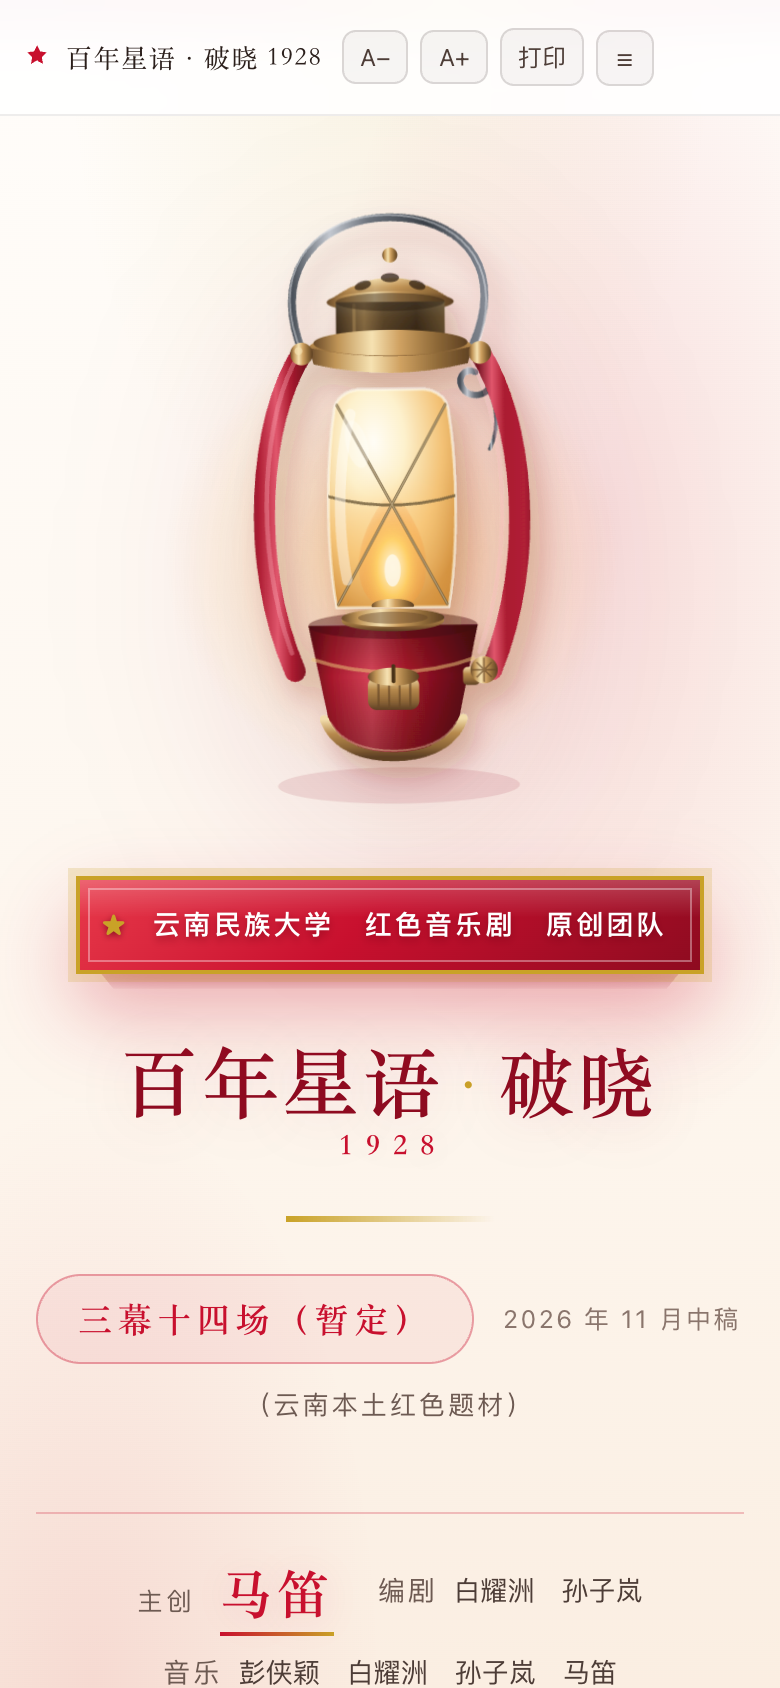
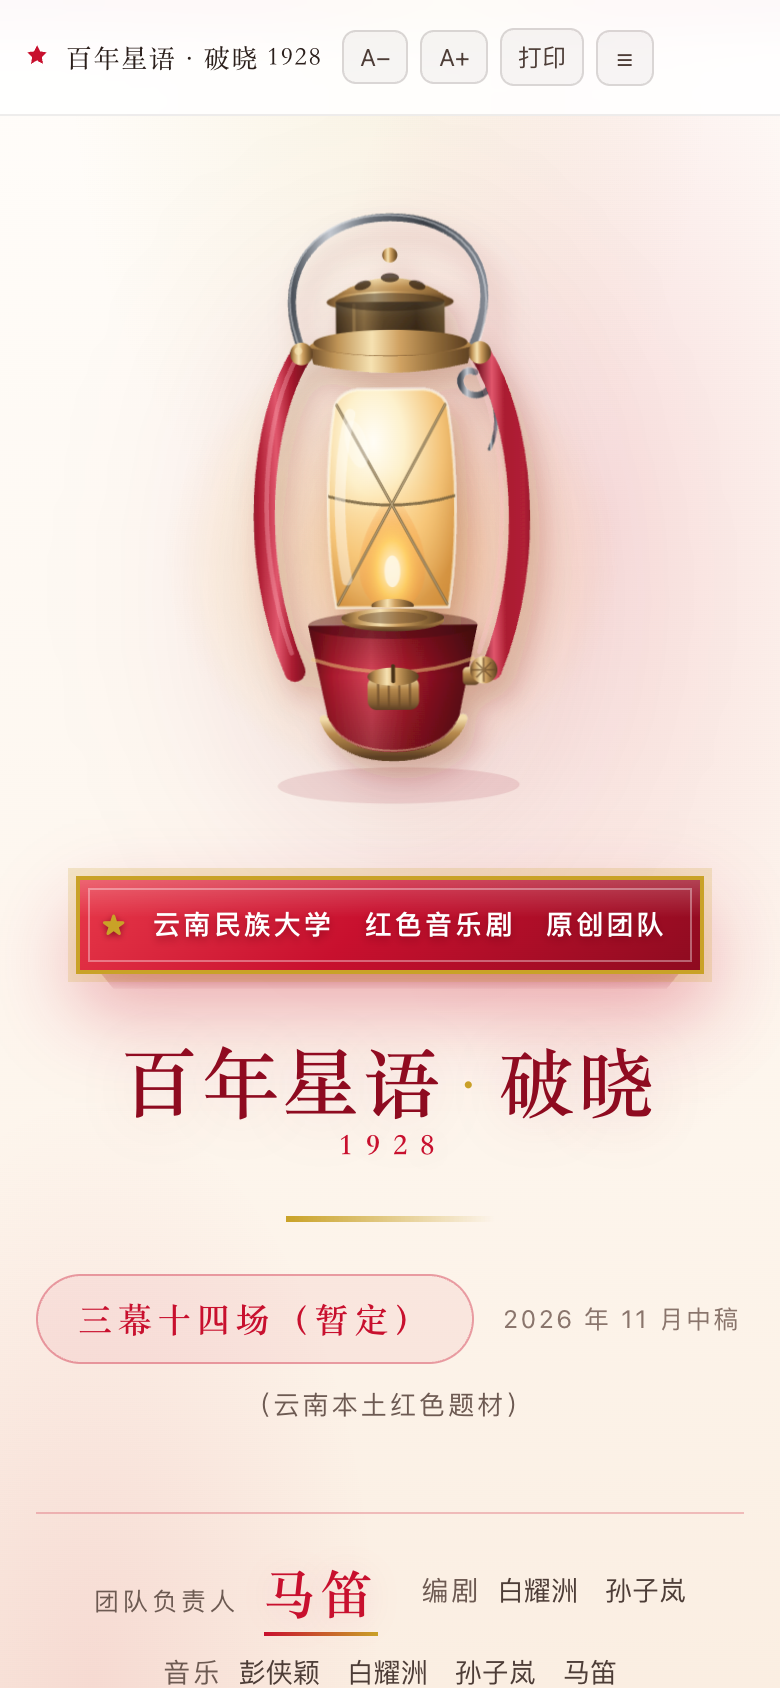
封面主创称谓改为「团队负责人」马笛

Changed region(s): [[0.1231, 0.9242, 0.8923, 0.9858]]

diff --git a/index.html b/index.html
@@ -310,7 +310,7 @@
     </div>
     <p class="hero-tag">（云南本土红色题材）</p>
     <p class="hero-credits">
-      <span class="hc-lead"><b class="lb">主创</b><b class="who">马笛</b></span>
+      <span class="hc-lead"><b class="lb">团队负责人</b><b class="who">马笛</b></span>
       <span><b>编剧</b>白耀洲　孙子岚</span>
       <span><b>音乐</b>彭侠颖　白耀洲　孙子岚　马笛</span>
       <span class="dim">2026 年 11 月中稿</span>

diff --git a/assets/app.js b/assets/app.js
@@ -35,7 +35,7 @@
     c.innerHTML = '';
     if (m.lead) {
       var lead = el('span', 'hc-lead');
-      lead.appendChild(el('b', 'lb', '主创'));
+      lead.appendChild(el('b', 'lb', '团队负责人'));
       lead.appendChild(el('b', 'who', m.lead));
       c.appendChild(lead);
     }

diff --git a/README.md b/README.md
@@ -90,7 +90,7 @@ assets/img/           查尼皮会址公开报道图 3 张
 
 - 〔调度〕连写一处按节拍拆为四条，文字未增删。
 - 分曲表「时长」列取自正文各曲的曲属性行（26 首有）；No.18、20、23、24、27 的半截速度写法补全。
-- 团队名与署名按作者 2026 年 11 月更新更正：团队「云南民族大学 马笛红色音乐剧原创团队」、主创「马笛」朱红单列、音乐「彭侠颖 · 白耀洲 · 孙子岚 · 马笛」、编剧「白耀洲 · 孙子岚」。
+- 团队名与署名按作者 2026 年 11 月更新更正：团队「云南民族大学 马笛红色音乐剧原创团队」、团队负责人「马笛」朱红单列、音乐「彭侠颖 · 白耀洲 · 孙子岚 · 马笛」、编剧「白耀洲 · 孙子岚」。
 - 第 01 节「创作缘起」由作者 2026 年 11 月直接提供，逐字照录。
 - 第 02 节新作《共和国的星辉》第 3 段重复句按改稿痕迹校订断句（文字未增删），该曲标注为「新作·尚未定稿」。
 - 第 02 节 demo 为创作阶段录音，页面上不标角色名（角色信息仅留数据层）；demo 授权声明与图片来源逐条显示在对应章节内。
@@ -100,7 +100,7 @@ assets/img/           查尼皮会址公开报道图 3 张
 
 - 断点覆盖 **1440 / 1280 / 1024 / 768 / 390 / 320** 六档：横向溢出 **0px**，无裁切、无遮挡、无文字压字
 - 封面绶带拆为「云南民族大学 / 红色音乐剧 / 原创团队」三段，每段不可拆，窄屏只在段与段之间断行，不会出现「原 / 创团队」这类词中截断；星标移入绶带内，不再与文字抢位
-- 主创「马笛」以朱红大字单列并加金红渐变下划线；版本日期「2026 年 11 月中稿」移至体例行，署名行在桌面端保持单行
+- 团队负责人「马笛」以朱红大字单列并加金红渐变下划线；版本日期「2026 年 11 月中稿」移至体例行，署名行在桌面端保持单行
 - 顶栏 ≤430px 收紧间距、≤360px 品牌只留「百年星语」，四个按钮在任何宽度都不被裁切
 - 分曲表各列 `nowrap` + `min-width:840px`，窄屏横向滚动并给出滑动提示；年表同样给出提示
 - 正文辙口标注由 11px 提到 **12px**；全站最小字号 11px（仅图注与章节标签）
